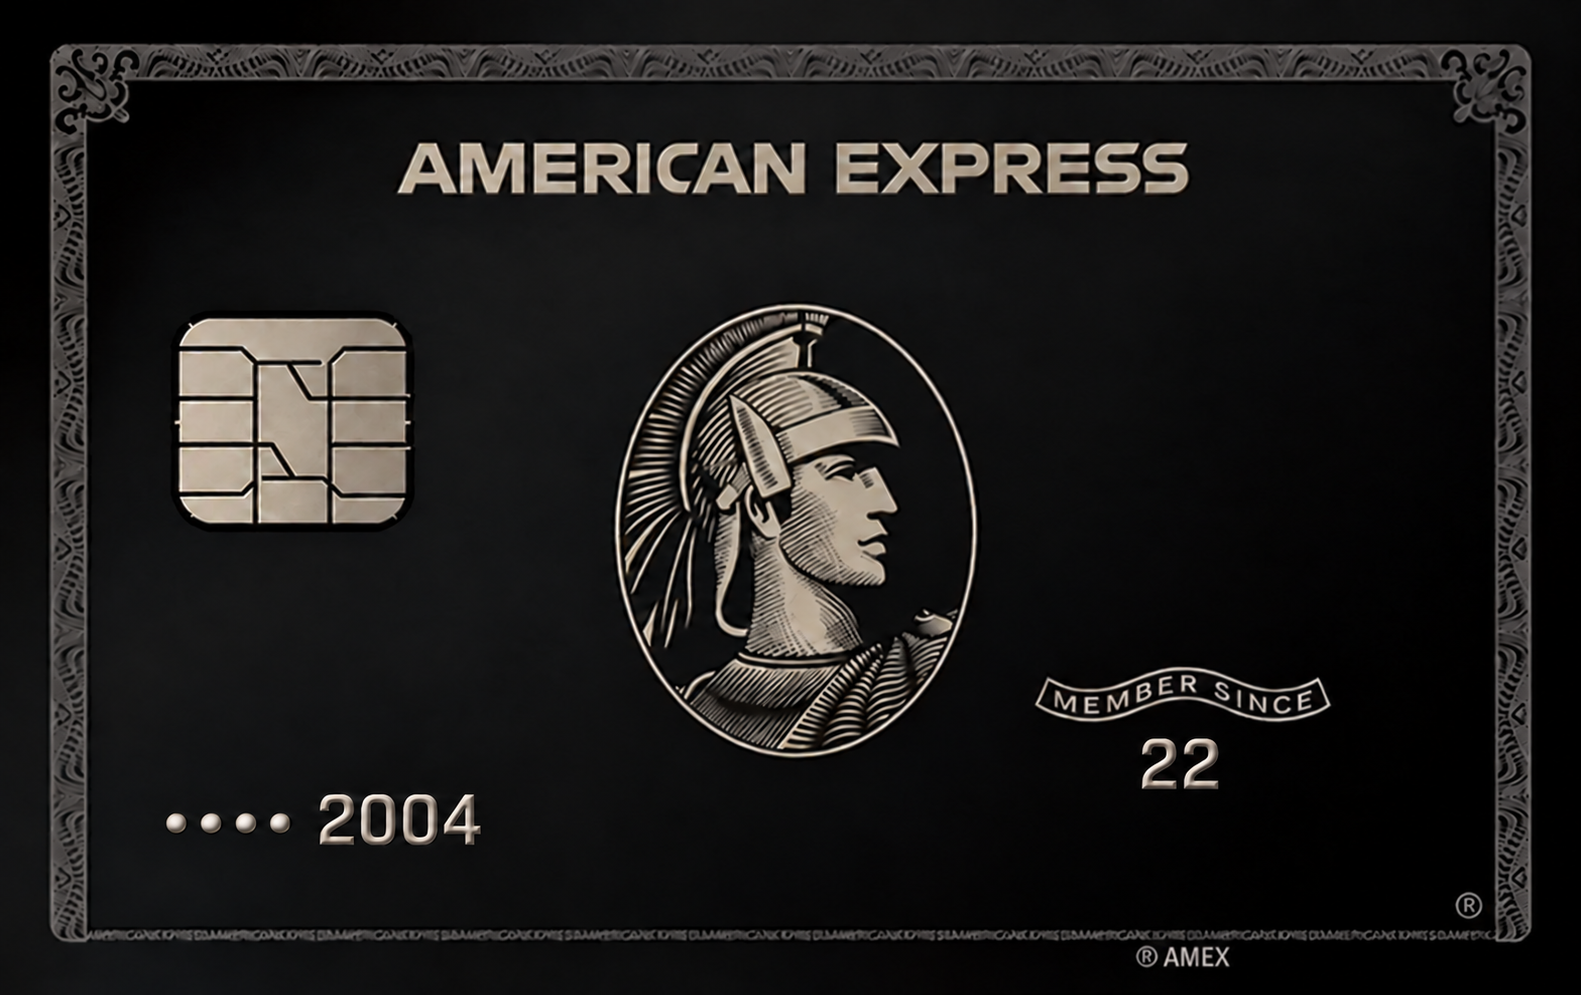
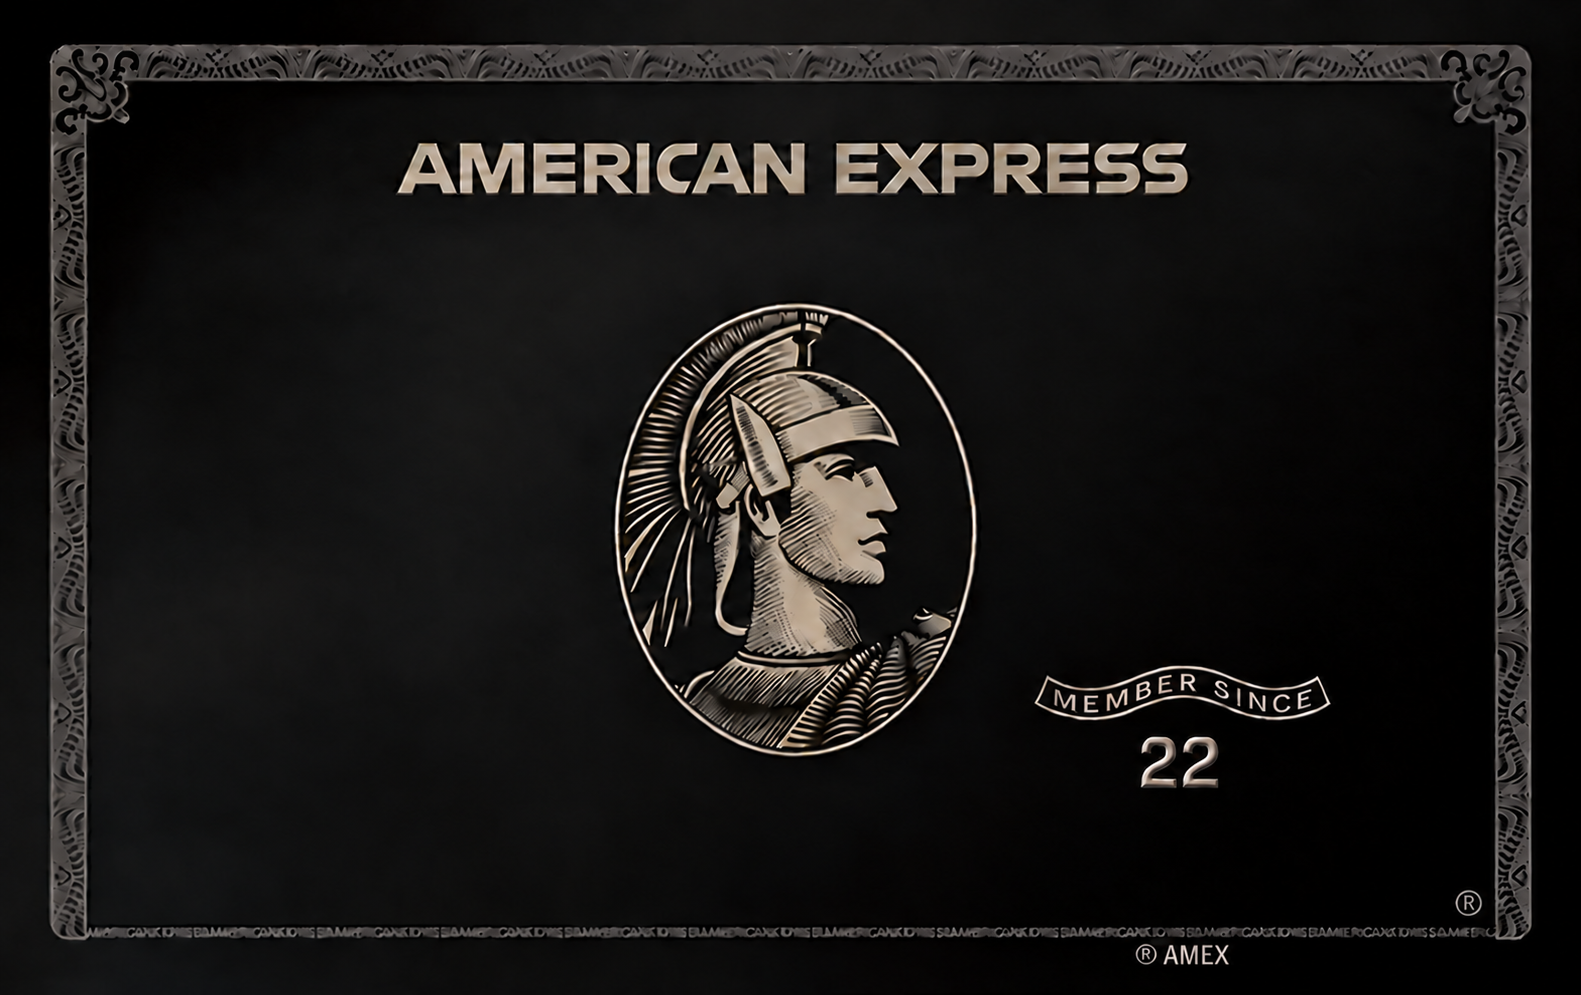
Remove decorative card numbers and chips from Wallet artwork

diff --git a/Sources/CardSkinLibrary.swift b/Sources/CardSkinLibrary.swift
@@ -7,12 +7,11 @@ struct CardSkin: Identifiable {
     let name: String
     let finish: String
     let fileName: String
-    let lastFour: String
 
     static let presets: [CardSkin] = [
-        .init(id: "amex-black", name: "American Express Black", finish: "Centurion · negro", fileName: "amex-black.png", lastFour: "2004"),
-        .init(id: "amex-platinum", name: "American Express Platinum", finish: "Platinum · plata", fileName: "amex-platinum.png", lastFour: "2002"),
-        .init(id: "jp-morgan-palladium", name: "J.P. Morgan Palladium", finish: "Palladium · metal cepillado", fileName: "jp-morgan-palladium.png", lastFour: "0427")
+        .init(id: "amex-black", name: "American Express Black", finish: "Centurion · negro", fileName: "amex-black.png"),
+        .init(id: "amex-platinum", name: "American Express Platinum", finish: "Platinum · plata", fileName: "amex-platinum.png"),
+        .init(id: "jp-morgan-palladium", name: "J.P. Morgan Palladium", finish: "Palladium · metal cepillado", fileName: "jp-morgan-palladium.png")
     ]
 
     func artworkURL() -> URL? {
@@ -34,7 +33,7 @@ struct SkinLibraryPreview: View {
             HStack {
                 VStack(alignment: .leading, spacing: 3) {
                     Text("Tus diseños").font(.title3.bold())
-                    Text("Vista previa con terminaciones de ejemplo")
+                    Text("Carátulas sin números añadidos ni chip")
                         .font(.caption).foregroundStyle(.secondary)
                 }
                 Spacer()
@@ -49,7 +48,7 @@ struct SkinLibraryPreview: View {
                                 .clipShape(RoundedRectangle(cornerRadius: 12))
                         }
                         Text(skin.name).font(.system(size: 13, weight: .semibold))
-                        Text("•••• \(skin.lastFour)").font(.caption.monospacedDigit())
+                        Text(skin.finish).font(.caption)
                             .foregroundStyle(.secondary)
                     }
                     .frame(width: 250, alignment: .leading)
@@ -161,7 +160,7 @@ private struct SkinPresetTile: View {
                 .accessibilityLabel("Vista previa de \(skin.name)")
             Text(skin.name).font(.system(size: 13, weight: .semibold)).lineLimit(1)
             Text(skin.finish).font(.caption).foregroundStyle(.secondary)
-            Text("Ejemplo · •••• \(skin.lastFour)").font(.caption.monospacedDigit())
+            Text("Sin números añadidos · sin chip").font(.caption)
                 .foregroundStyle(.secondary)
             Button("Usar este diseño") {
                 if let url = skin.artworkURL() { onSelect(url) }

diff --git a/AirCardApp.swift b/AirCardApp.swift
@@ -2367,7 +2367,7 @@ struct ContentView: View {
                     Text("AirCard")
                         .font(.title2)
                         .fontWeight(.bold)
-                    Text("v1.2.6.1")
+                    Text("v1.2.6.2")
                         .font(.system(size: 10, weight: .bold, design: .rounded))
                         .padding(.horizontal, 6)
                         .padding(.vertical, 2)
